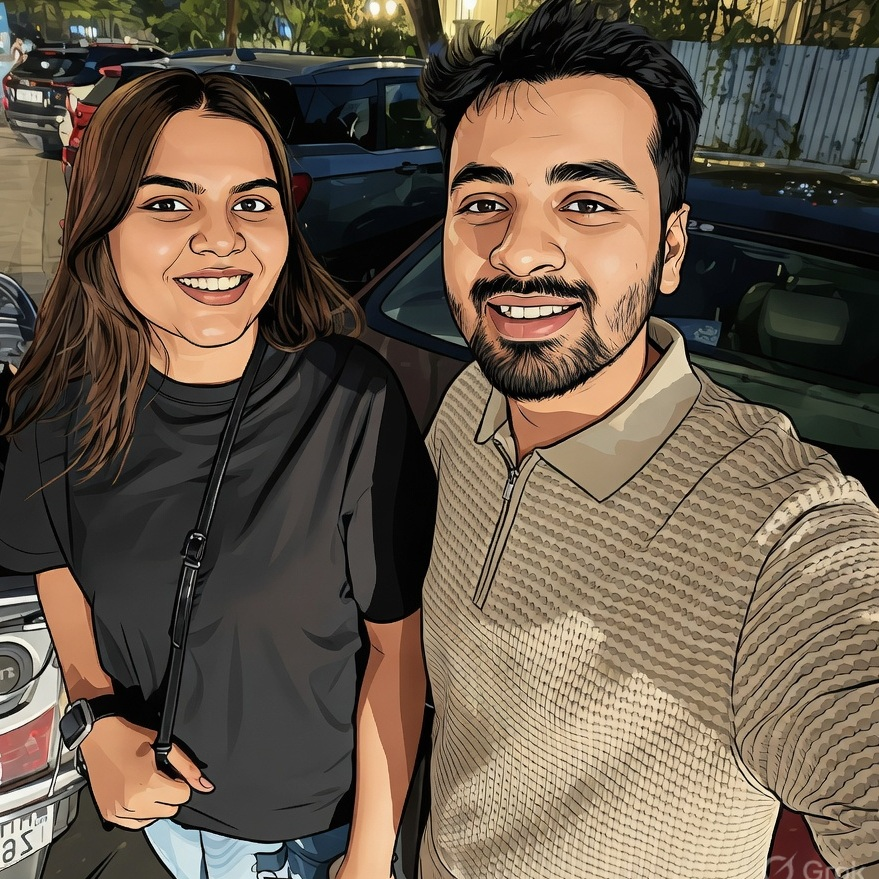
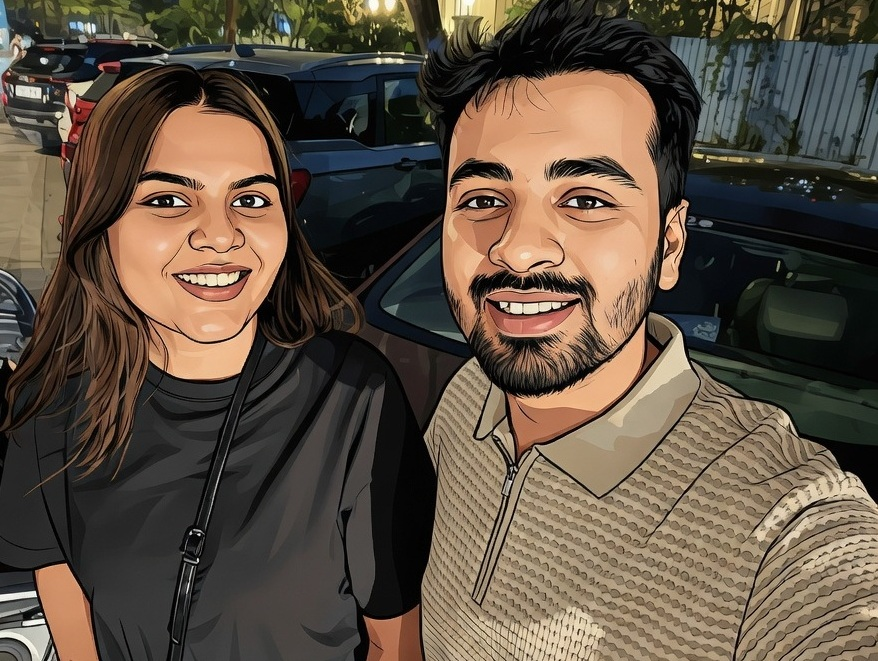
4:3 aspect ratio photo frames
Made-with: Cursor

diff --git a/index.html b/index.html
@@ -225,7 +225,7 @@
         }
         .photo-frame img {
             width: 100%; border-radius: 12px;
-            display: block; aspect-ratio: 1/1; object-fit: cover;
+            display: block; aspect-ratio: 4/3; object-fit: cover;
         }
         .photo-caption {
             font-family: 'Dancing Script', cursive;
